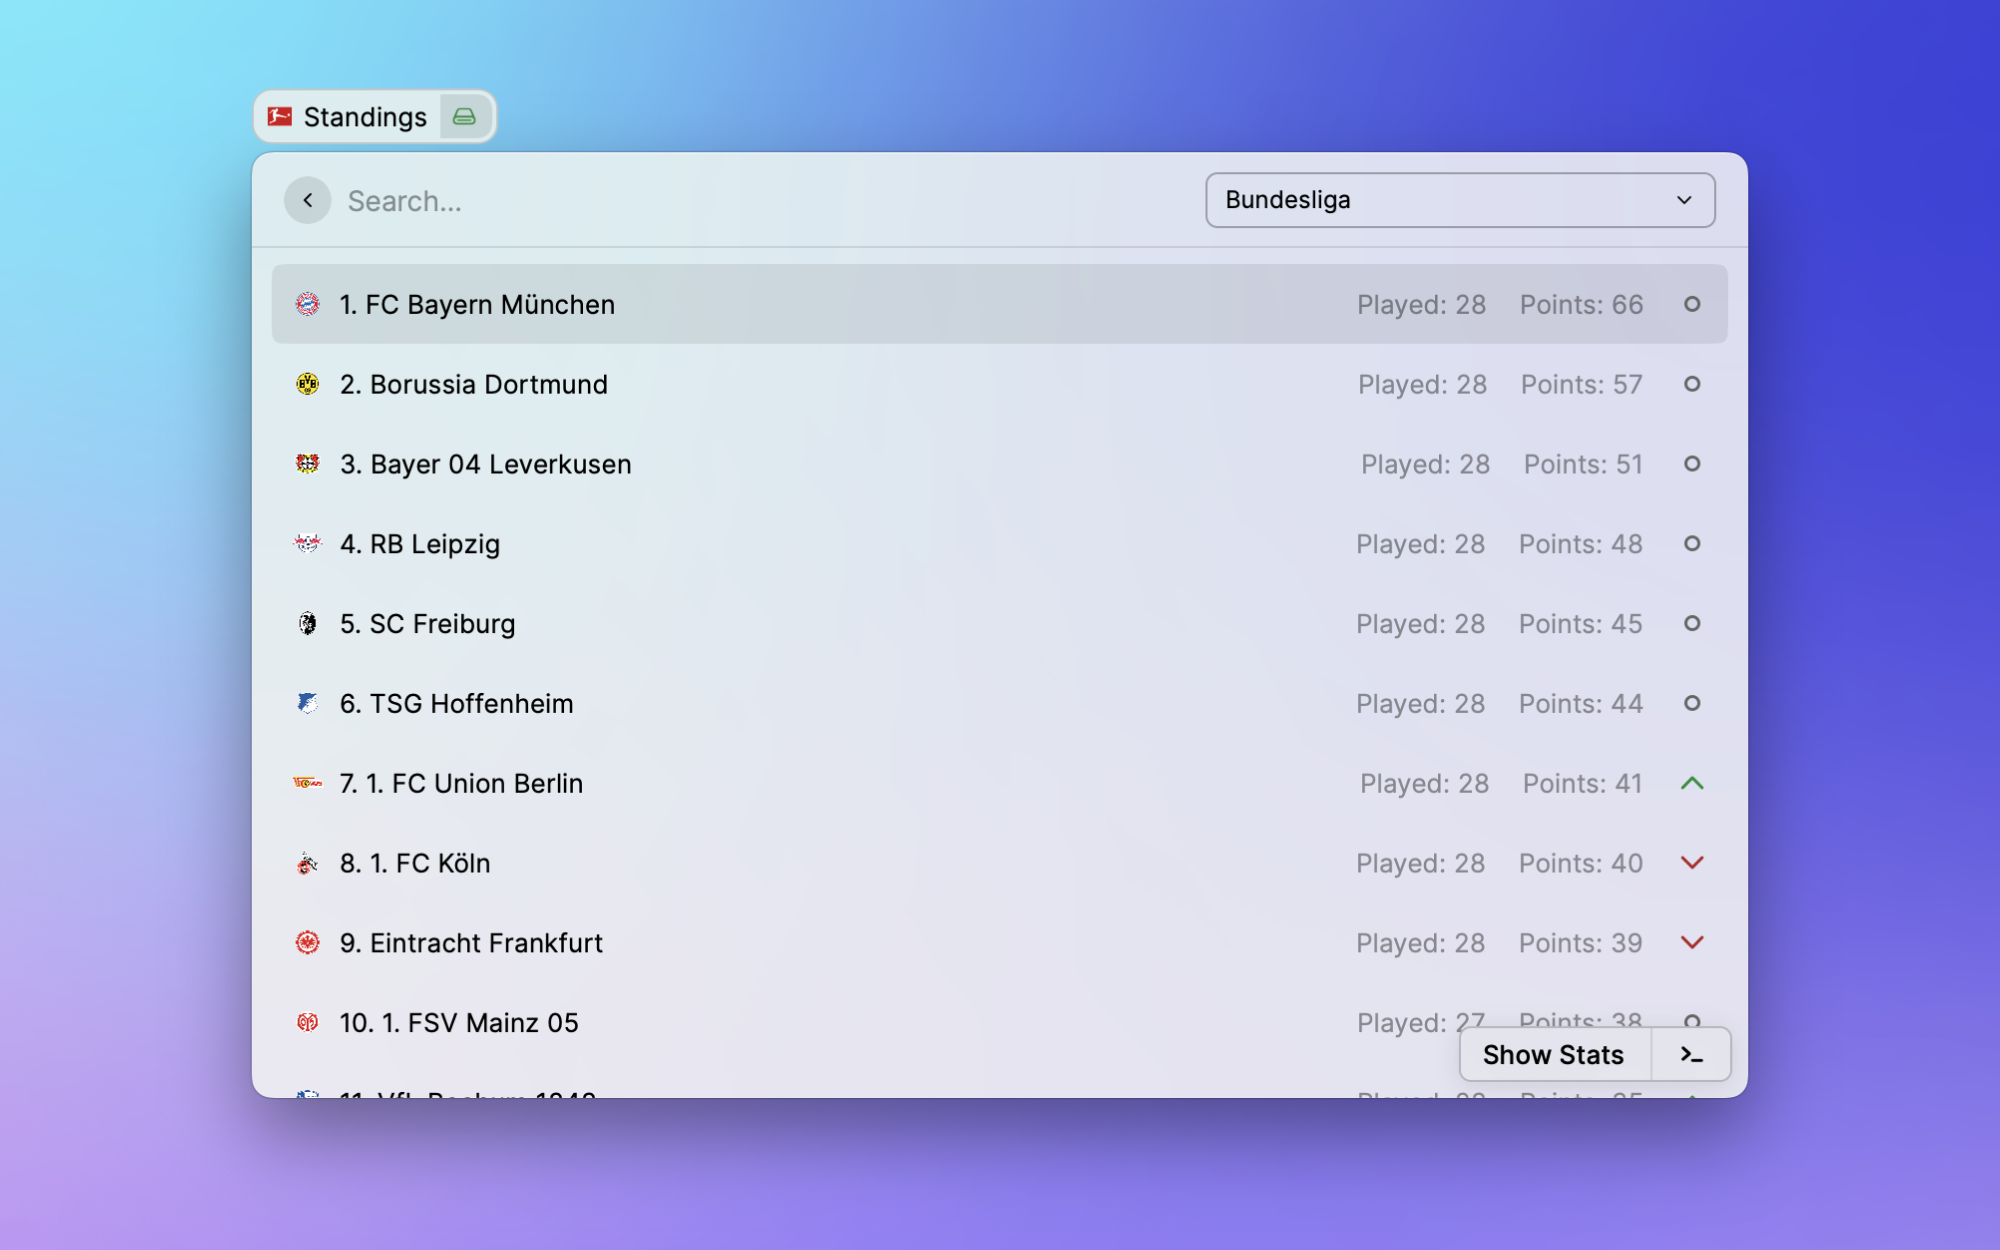
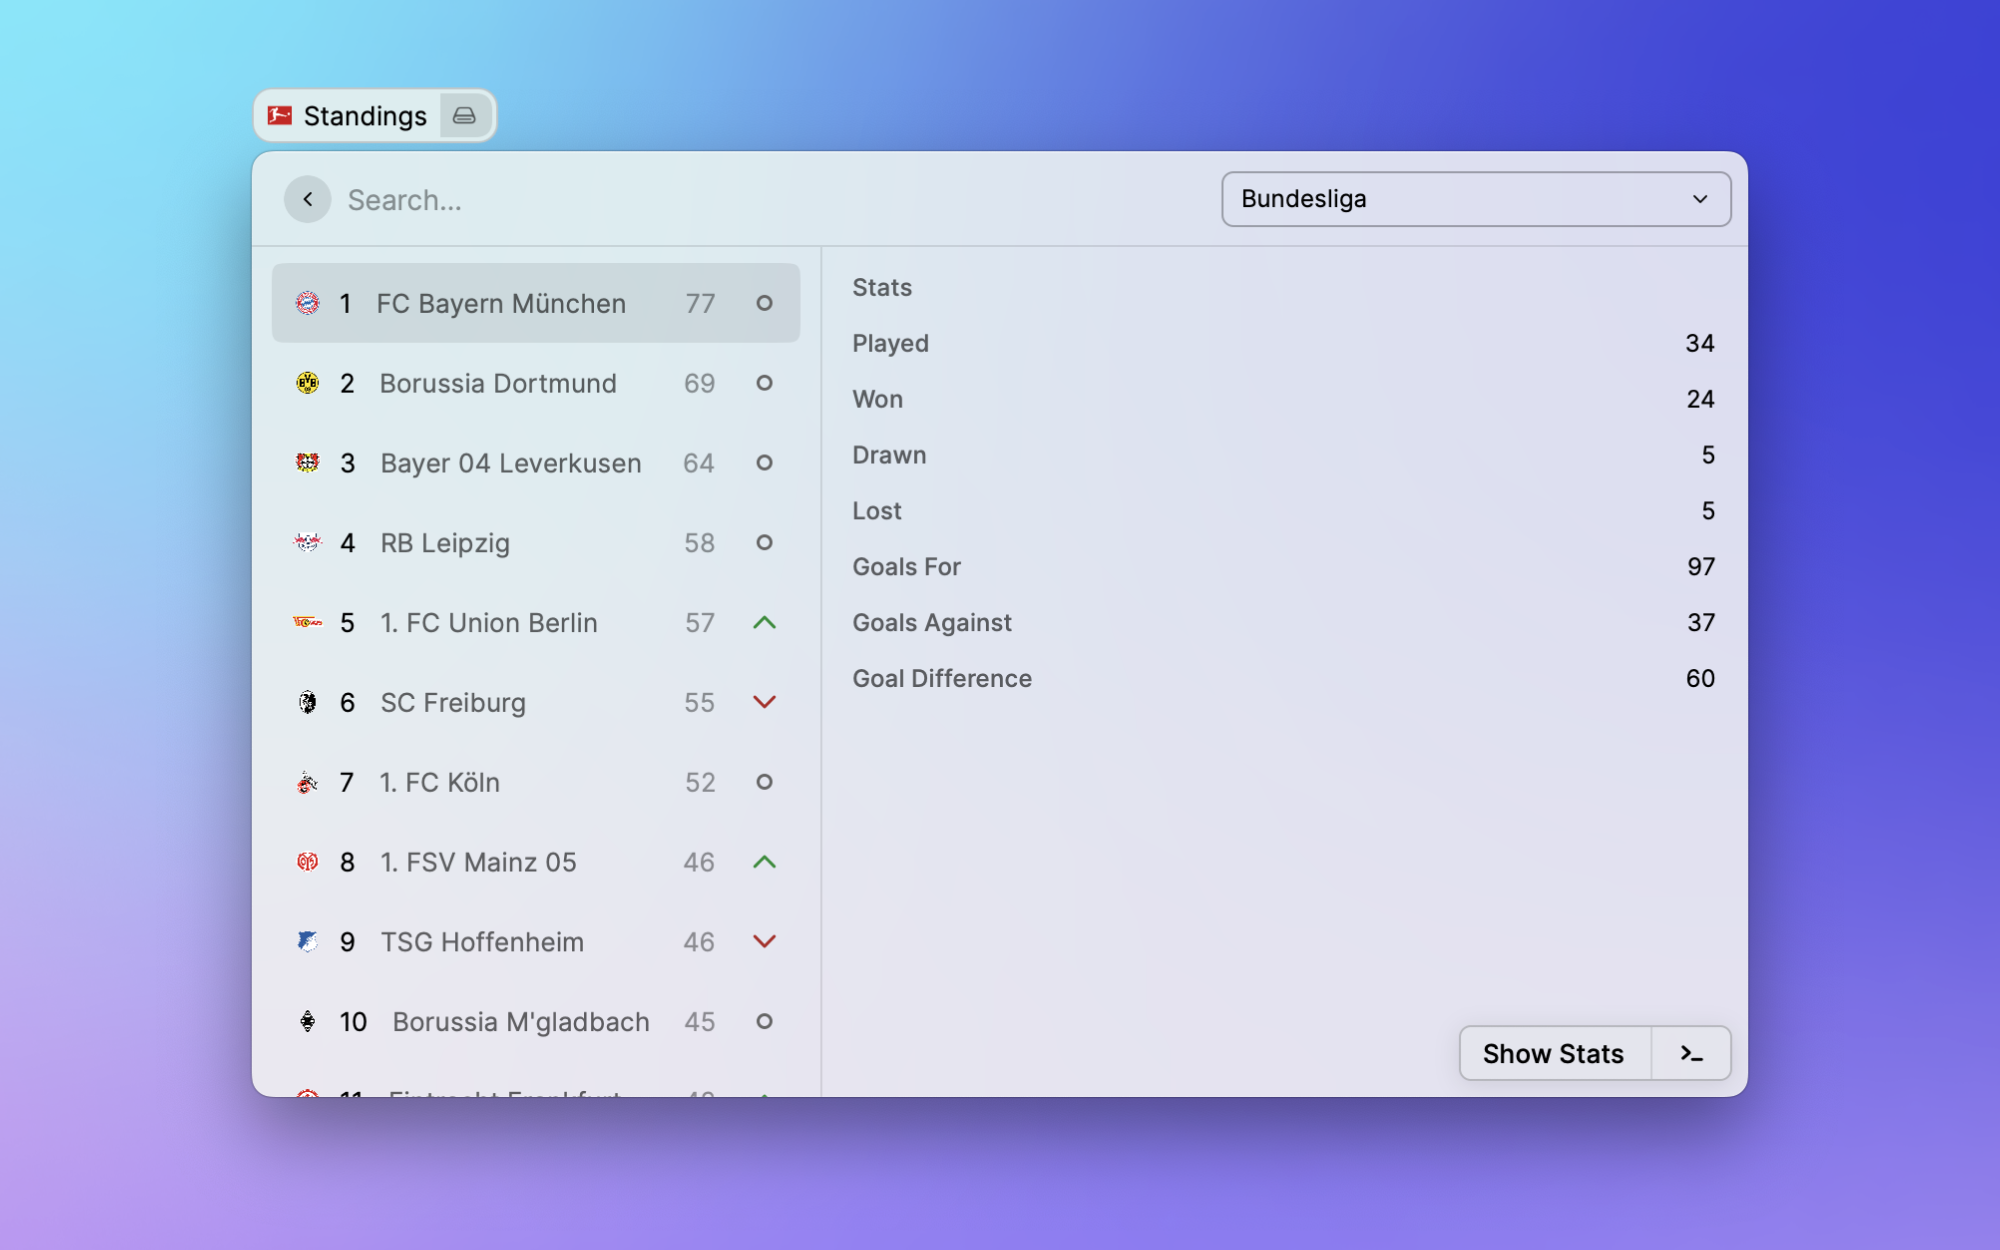
feat: using new grid layout for some commands, list item detail metadata (#1995)

diff --git a/extensions/bundesliga/src/table.tsx b/extensions/bundesliga/src/table.tsx
@@ -1,31 +1,11 @@
 import { Action, ActionPanel, Color, Icon, Image, List } from "@raycast/api";
 import { useState } from "react";
-import json2md from "json2md";
 import { useTable } from "./hooks";
-import { Entry } from "./types/firebase";
 
 export default function Table() {
   const [competition, setCompetition] = useState<string>("bundesliga");
   const table = useTable(competition);
   const [showStats, setShowStats] = useState<boolean>(false);
-
-  const clubStats = (entry: Entry): json2md.DataObject => {
-    return [
-      { h1: entry.club.nameFull },
-      { h2: "Stats" },
-      {
-        p: [
-          `Played: ${entry.gamesPlayed}`,
-          `Won: ${entry.wins}`,
-          `Drawn: ${entry.draws}`,
-          `Lost: ${entry.losses}`,
-          `Goals For: ${entry.goalsScored}`,
-          `Goals Against: ${entry.goalsAgainst}`,
-          `Goal Difference: ${entry.goalDifference}`,
-        ],
-      },
-    ];
-  };
 
   return (
     <List
@@ -61,28 +41,51 @@ export default function Table() {
           };
         }
 
-        const props: Partial<List.Item.Props> = showStats
-          ? {
-              accessories: [{ text: entry.points.toString() }, { icon }],
-              detail: <List.Item.Detail markdown={json2md(clubStats(entry))} />,
-            }
-          : {
-              accessories: [
-                { text: `Played: ${entry.gamesPlayed}` },
-                { text: `Points: ${entry.points}` },
-                { icon },
-              ],
-            };
-
         return (
           <List.Item
             key={entry.rank}
-            title={`${entry.rank}. ${entry.club.nameFull}`}
-            icon={{
-              source: entry.club.logoUrl,
-              fallback: "default_clublogo.svg",
-            }}
-            {...props}
+            icon={entry.club.logoUrl}
+            title={entry.rank.toString()}
+            subtitle={entry.club.nameFull}
+            keywords={[entry.club.nameFull, entry.club.nameShort]}
+            accessories={[{ text: entry.points.toString() }, { icon }]}
+            detail={
+              <List.Item.Detail
+                metadata={
+                  <List.Item.Detail.Metadata>
+                    <List.Item.Detail.Metadata.Label title="Stats" />
+                    <List.Item.Detail.Metadata.Label
+                      title="Played"
+                      text={entry.gamesPlayed.toString()}
+                    />
+                    <List.Item.Detail.Metadata.Label
+                      title="Won"
+                      text={entry.wins.toString()}
+                    />
+                    <List.Item.Detail.Metadata.Label
+                      title="Drawn"
+                      text={entry.draws.toString()}
+                    />
+                    <List.Item.Detail.Metadata.Label
+                      title="Lost"
+                      text={entry.losses.toString()}
+                    />
+                    <List.Item.Detail.Metadata.Label
+                      title="Goals For"
+                      text={entry.goalsScored.toString()}
+                    />
+                    <List.Item.Detail.Metadata.Label
+                      title="Goals Against"
+                      text={entry.goalsAgainst.toString()}
+                    />
+                    <List.Item.Detail.Metadata.Label
+                      title="Goal Difference"
+                      text={entry.goalDifference.toString()}
+                    />
+                  </List.Item.Detail.Metadata>
+                }
+              />
+            }
             actions={
               <ActionPanel>
                 <Action

diff --git a/extensions/bundesliga/src/club.tsx b/extensions/bundesliga/src/club.tsx
@@ -1,4 +1,4 @@
-import { Action, ActionPanel, Detail, Icon, List } from "@raycast/api";
+import { Action, ActionPanel, Detail, Icon, Grid } from "@raycast/api";
 import json2md from "json2md";
 import { useState } from "react";
 import ClubPersons from "./components/clubpersons";
@@ -37,7 +37,16 @@ function ClubDetails(props: { team: Club; competition: string }) {
                 text={team.colors.club.secondary.hex}
               />
             </Detail.Metadata.TagList>
-            <Detail.Metadata.Label title="Stadium" text={team.stadium.name} />
+            <Detail.Metadata.Label
+              title="Stadium"
+              text={team.stadium.name}
+              icon={{
+                source: {
+                  dark: team.stadium.stadiumIconUrlWhite,
+                  light: team.stadium.stadiumIconUrlBlack,
+                },
+              }}
+            />
             <Detail.Metadata.Label
               title="Capacity"
               text={team.stadium.capacity}
@@ -100,44 +109,31 @@ export default function Club() {
   const clubs = useClubs();
 
   return (
-    <List
+    <Grid
       throttle
       isLoading={!clubs}
       searchBarAccessory={
-        <List.Dropdown
+        <Grid.Dropdown
           tooltip="Filter by Competition"
           value={competition}
           onChange={setCompetition}
         >
-          <List.Dropdown.Item title="Bundesliga" value="bundesliga" />
-          <List.Dropdown.Item title="2. Bundesliga" value="2bundesliga" />
-        </List.Dropdown>
+          <Grid.Dropdown.Item title="Bundesliga" value="bundesliga" />
+          <Grid.Dropdown.Item title="2. Bundesliga" value="2bundesliga" />
+        </Grid.Dropdown>
       }
     >
       {((clubs && clubs[competition]) || []).map((team) => {
         return (
-          <List.Item
+          <Grid.Item
             key={team.id}
             title={team.name.full}
-            subtitle={team.threeLetterCode}
-            icon={{
+            subtitle={team.stadium.name}
+            content={{
               source: `https://www.bundesliga.com/assets/clublogo/${team.id}.svg`,
               // source: team.logos[0].uri,
               fallback: "default_clublogo.svg",
             }}
-            accessories={[
-              {
-                text: team.stadium.name,
-              },
-              {
-                icon: {
-                  source: {
-                    dark: team.stadium.stadiumIconUrlWhite,
-                    light: team.stadium.stadiumIconUrlBlack,
-                  },
-                },
-              },
-            ]}
             actions={
               <ActionPanel>
                 <Action.Push
@@ -150,6 +146,6 @@ export default function Club() {
           />
         );
       })}
-    </List>
+    </Grid>
   );
 }

diff --git a/extensions/bundesliga/src/components/clubpersons.tsx b/extensions/bundesliga/src/components/clubpersons.tsx
@@ -1,6 +1,6 @@
-import { Action, ActionPanel, List, Icon } from "@raycast/api";
+import { Action, ActionPanel, Grid, Icon } from "@raycast/api";
 import { usePersons } from "../hooks";
-import { getFlagEmoji, positionMap } from "../utils";
+import { positionMap } from "../utils";
 import Person from "./person";
 
 type PropsType = {
@@ -12,41 +12,18 @@ export default function ClubPersons(props: PropsType) {
   const players = usePersons(props.club);
 
   return (
-    <List navigationTitle={props.navigationTitle} throttle isLoading={!players}>
+    <Grid navigationTitle={props.navigationTitle} throttle isLoading={!players}>
       {players &&
         Object.entries(players).map(([position, persons]) => {
           return (
-            <List.Section key={position} title={positionMap.get(position)}>
+            <Grid.Section key={position} title={positionMap.get(position)}>
               {persons.map((person, idx) => {
-                const props: Partial<List.Item.Props> = {
-                  accessories: [
-                    {
-                      icon: getFlagEmoji(
-                        person.nationality.firstNationalityCode
-                      ),
-                    },
-                  ],
-                };
-
-                if (person.nationality.secondNationalityCode) {
-                  props.accessories?.push({
-                    icon: getFlagEmoji(
-                      person.nationality.secondNationalityCode
-                    ),
-                  });
-                }
-                if (person.nationality.thirdNationalityCode) {
-                  props.accessories?.push({
-                    icon: getFlagEmoji(person.nationality.thirdNationalityCode),
-                  });
-                }
                 return (
-                  <List.Item
+                  <Grid.Item
                     key={position + idx}
-                    title={person.shirtNumber}
-                    subtitle={person.name.full}
-                    keywords={[person.name.full]}
-                    icon={{
+                    title={person.name.full}
+                    subtitle={person.nationality.firstNationality}
+                    content={{
                       source: person.playerImages.FACE_CIRCLE,
                       fallback: "player-circle-default.png",
                     }}
@@ -63,9 +40,9 @@ export default function ClubPersons(props: PropsType) {
                   />
                 );
               })}
-            </List.Section>
+            </Grid.Section>
           );
         })}
-    </List>
+    </Grid>
   );
 }

diff --git a/extensions/bundesliga/src/components/person.tsx b/extensions/bundesliga/src/components/person.tsx
@@ -2,7 +2,7 @@ import { Detail } from "@raycast/api";
 import json2md from "json2md";
 import { usePerson } from "../hooks";
 import { Name } from "../types";
-import { positionMap } from "../utils";
+import { positionMap, getFlagEmoji } from "../utils";
 
 export default function Person(props: Name) {
   const player = usePerson(props.slugifiedFull);
@@ -33,7 +33,8 @@ export default function Person(props: Name) {
         <Detail.Metadata>
           <Detail.Metadata.Label
             title="Nationality"
-            text={player.birth.country}
+            icon={getFlagEmoji(player.nationality.firstNationalityCode)}
+            text={player.nationality.firstNationality}
           />
           <Detail.Metadata.Label
             title="Date of Birth"

diff --git a/extensions/bundesliga/CHANGELOG.md b/extensions/bundesliga/CHANGELOG.md
@@ -1,5 +1,10 @@
 # Bundesliga Changelog
 
+## [Improvements] - 2022-06-14
+
+- Using new Grid layout for some commands
+- Using new list item detail metadata
+
 ## [Improvements] - 2022-04-05
 
 - Added Standings
